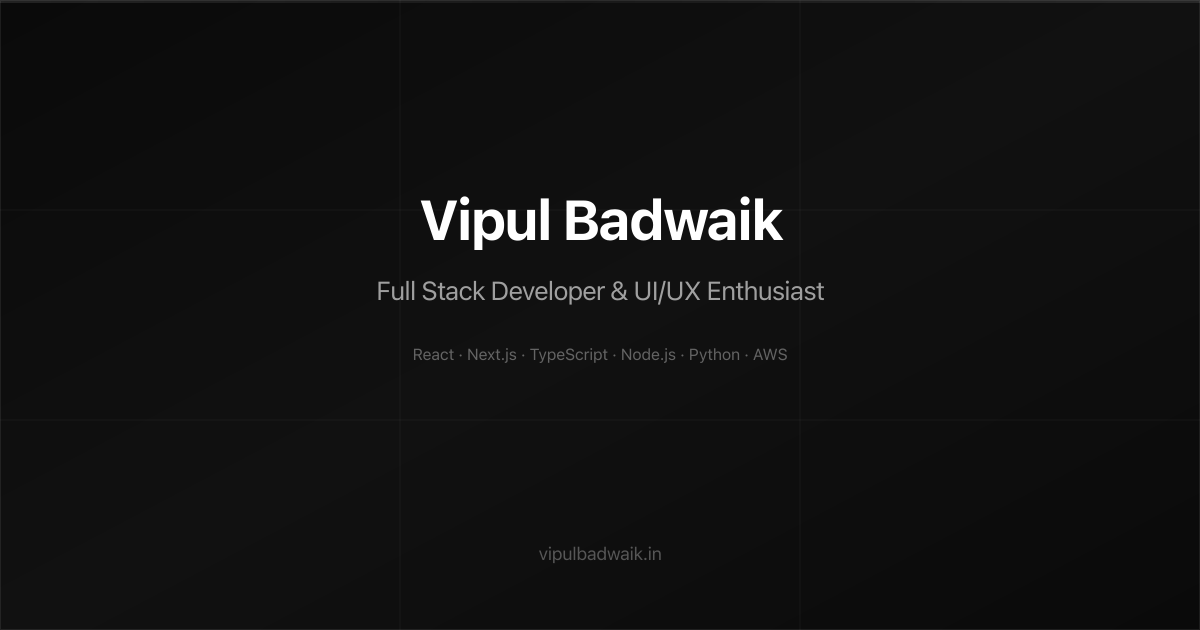
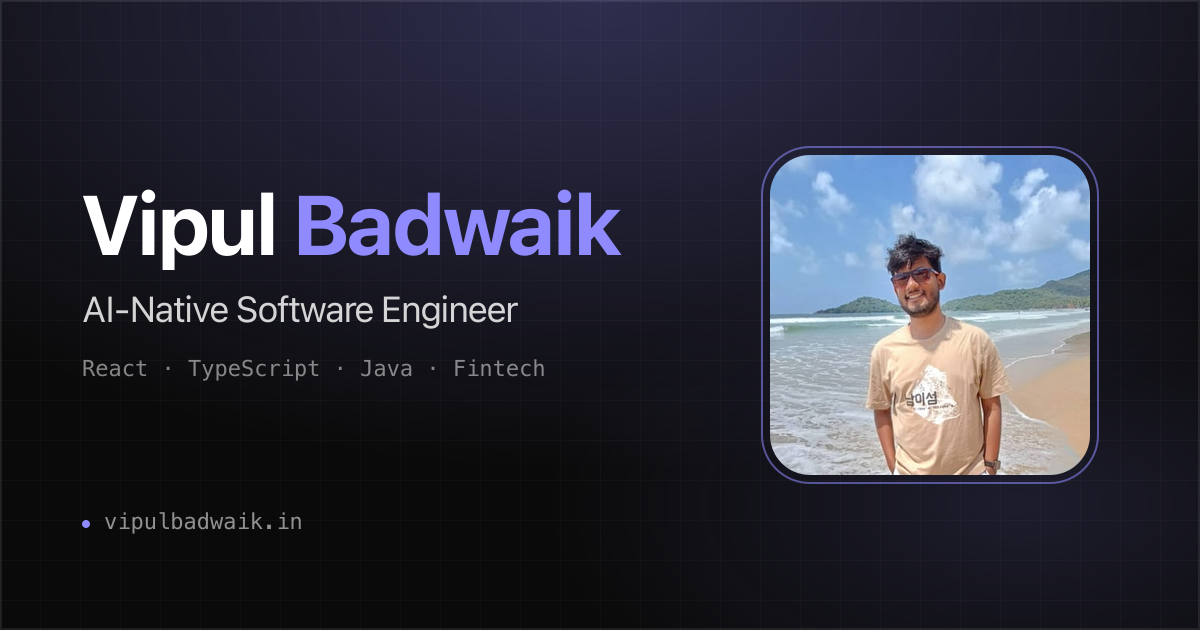
feat: SEO metadata, JSON-LD, generated sitemap/robots, AI crawler access, new resume link

diff --git a/src/app/layout.js b/src/app/layout.js
@@ -1,6 +1,7 @@
 import { Plus_Jakarta_Sans, Bricolage_Grotesque, JetBrains_Mono } from 'next/font/google';
 import Script from 'next/script';
 import './globals.css';
+import { SITE_URL, SITE_NAME, SITE_TITLE, SITE_DESCRIPTION } from '../lib/site';
 
 const jakarta = Plus_Jakarta_Sans({
   subsets: ['latin'],
@@ -20,58 +21,56 @@ const jetbrains = JetBrains_Mono({
   display: 'swap',
 });
 
-const SITE_URL = 'https://vipulbadwaik.in';
-
 export const metadata = {
   metadataBase: new URL(SITE_URL),
-  title: 'Vipul Badwaik — Full Stack Developer',
-  description:
-    'Portfolio of Vipul Badwaik — Full Stack Developer & UI/UX Enthusiast specializing in React, Next.js, Node.js, and modern web technologies. Currently an AI-native Software Engineer at Fundly.ai.',
+  title: { default: SITE_TITLE, template: '%s | Vipul Badwaik' },
+  description: SITE_DESCRIPTION,
+  applicationName: SITE_NAME,
   keywords: [
     'Vipul Badwaik',
-    'Full Stack Developer',
-    'Frontend Engineer',
-    'React Developer',
-    'Next.js',
-    'TypeScript',
-    'Node.js',
-    'Java',
-    'Redux',
-    'Portfolio',
     'Software Engineer',
+    'AI-native engineer',
+    'React Developer',
+    'TypeScript',
+    'Java Developer',
+    'Frontend Engineer',
+    'Fintech',
+    'Fundly.ai',
+    'Mumbai',
     'India',
+    'Portfolio',
   ],
-  authors: [{ name: 'Vipul Badwaik', url: SITE_URL }],
-  creator: 'Vipul Badwaik',
-  alternates: {
-    canonical: SITE_URL,
-  },
+  authors: [{ name: SITE_NAME, url: SITE_URL }],
+  creator: SITE_NAME,
+  publisher: SITE_NAME,
+  category: 'technology',
+  alternates: { canonical: '/' },
   icons: {
     icon: '/favicon.png',
     apple: '/apple-touch-icon.png',
   },
   openGraph: {
-    title: 'Vipul Badwaik — Full Stack Developer',
-    description:
-      'Full Stack Developer & UI/UX Enthusiast specializing in React, Next.js, and modern web technologies.',
+    type: 'profile',
+    firstName: 'Vipul',
+    lastName: 'Badwaik',
+    title: SITE_TITLE,
+    description: SITE_DESCRIPTION,
     url: SITE_URL,
-    siteName: 'Vipul Badwaik',
+    siteName: SITE_NAME,
     locale: 'en_US',
-    type: 'website',
     images: [
       {
         url: '/og-image.png',
         width: 1200,
         height: 630,
-        alt: 'Vipul Badwaik — Full Stack Developer',
+        alt: 'Vipul Badwaik — AI-native Software Engineer',
       },
     ],
   },
   twitter: {
     card: 'summary_large_image',
-    title: 'Vipul Badwaik — Full Stack Developer',
-    description:
-      'Full Stack Developer & UI/UX Enthusiast specializing in React, Next.js, and modern web technologies.',
+    title: SITE_TITLE,
+    description: SITE_DESCRIPTION,
     creator: '@VipulBadwaik',
     images: ['/og-image.png'],
   },
@@ -81,8 +80,85 @@ export const metadata = {
     googleBot: {
       index: true,
       follow: true,
+      'max-image-preview': 'large',
+      'max-snippet': -1,
     },
   },
+  // Set NEXT_PUBLIC_GOOGLE_SITE_VERIFICATION to the token from Google Search Console
+  // (HTML-tag method) if you prefer that over DNS verification.
+  ...(process.env.NEXT_PUBLIC_GOOGLE_SITE_VERIFICATION && {
+    verification: { google: process.env.NEXT_PUBLIC_GOOGLE_SITE_VERIFICATION },
+  }),
+};
+
+export const viewport = {
+  themeColor: '#0a0a0a',
+  colorScheme: 'dark',
+};
+
+const structuredData = {
+  '@context': 'https://schema.org',
+  '@graph': [
+    {
+      '@type': 'WebSite',
+      '@id': `${SITE_URL}/#website`,
+      url: SITE_URL,
+      name: SITE_NAME,
+      description: SITE_DESCRIPTION,
+      inLanguage: 'en',
+      publisher: { '@id': `${SITE_URL}/#person` },
+    },
+    {
+      '@type': 'ProfilePage',
+      '@id': `${SITE_URL}/#profile`,
+      url: SITE_URL,
+      name: SITE_TITLE,
+      isPartOf: { '@id': `${SITE_URL}/#website` },
+      mainEntity: { '@id': `${SITE_URL}/#person` },
+    },
+    {
+      '@type': 'Person',
+      '@id': `${SITE_URL}/#person`,
+      name: SITE_NAME,
+      givenName: 'Vipul',
+      familyName: 'Badwaik',
+      url: SITE_URL,
+      image: `${SITE_URL}/vipul-optimized.jpg`,
+      description: SITE_DESCRIPTION,
+      jobTitle: 'Software Engineer',
+      worksFor: { '@type': 'Organization', name: 'Fundly.ai' },
+      alumniOf: {
+        '@type': 'CollegeOrUniversity',
+        name: 'Rungta College of Engineering and Technology, Bhilai',
+      },
+      knowsAbout: [
+        'React',
+        'TypeScript',
+        'JavaScript',
+        'Java',
+        'Redux',
+        'Node.js',
+        'PostgreSQL',
+        'Redis',
+        'Tailwind CSS',
+        'Docker',
+        'REST APIs',
+        'Agentic AI',
+        'Fintech',
+      ],
+      sameAs: [
+        'https://github.com/vipulbadwaik',
+        'https://www.linkedin.com/in/vipulbadwaik/',
+        'https://x.com/VipulBadwaik',
+      ],
+      address: {
+        '@type': 'PostalAddress',
+        addressLocality: 'Mumbai',
+        addressRegion: 'Maharashtra',
+        addressCountry: 'IN',
+      },
+    },
+  ],
 };
 
 export default function RootLayout({ children }) {
@@ -117,46 +193,7 @@ export default function RootLayout({ children }) {
       <body className="font-sans bg-[#0a0a0a] text-white antialiased selection:bg-accent/30">
         <script
           type="application/ld+json"
-          dangerouslySetInnerHTML={{
-            __html: JSON.stringify({
-              '@context': 'https://schema.org',
-              '@type': 'Person',
-              name: 'Vipul Badwaik',
-              url: SITE_URL,
-              image: `${SITE_URL}/avatar.png`,
-              jobTitle: 'Software Engineer',
-              worksFor: {
-                '@type': 'Organization',
-                name: 'Fundly.ai',
-              },
-              alumniOf: {
-                '@type': 'CollegeOrUniversity',
-                name: 'Rungta College of Engineering and Technology, Bhilai',
-              },
-              knowsAbout: [
-                'JavaScript',
-                'TypeScript',
-                'Java',
-                'React',
-                'Redux',
-                'Node.js',
-                'PostgreSQL',
-                'Redis',
-                'Tailwind CSS',
-                'Docker',
-                'Agentic AI',
-              ],
-              sameAs: [
-                'https://github.com/vipulbadwaik',
-                'https://www.linkedin.com/in/vipulbadwaik/',
-                'https://x.com/VipulBadwaik',
-              ],
-              address: {
-                '@type': 'PostalAddress',
-                addressCountry: 'IN',
-              },
-            }),
-          }}
+          dangerouslySetInnerHTML={{ __html: JSON.stringify(structuredData) }}
         />
         {children}
       </body>

diff --git a/src/app/page.js b/src/app/page.js
@@ -18,6 +18,7 @@ import CopyEmail from '../components/CopyEmail';
 import Chatbot from '../components/Chatbot';
 import Astronaut from '../components/Astronaut';
 import Walker from '../components/Walker';
+import { RESUME_URL } from '../lib/site';
 import { skillGroups, experience, education, socials } from '../data/portfolioData';
 
 const stats = [
@@ -84,7 +85,7 @@ export default function Home() {
               <FadeIn direction="none" delay={0.45} duration={0.6}>
                 <div className="mt-7 flex flex-col sm:flex-row items-stretch sm:items-center justify-center md:justify-start gap-3">
                   <a
-                    href="https://drive.google.com/file/d/17Qz92-5K-ADO32iwSwDQP9La6eI39wsP/view?usp=sharing"
+                    href={RESUME_URL}
                     target="_blank"
                     rel="noopener noreferrer"
                     className="inline-flex items-center justify-center gap-2 px-5 py-3 rounded-full bg-white text-black text-sm font-medium hover:bg-accent-soft hover-lift transition-colors"
@@ -237,7 +238,7 @@ export default function Home() {
                     <a
                       href={social.url}
                       target="_blank"
-                      rel="noopener noreferrer"
+                      rel="me noopener noreferrer"
                       className="p-3 border border-white/10 rounded-lg text-gray-300 hover:text-accent hover:border-accent/40 hover-scale transition-colors inline-block"
                       aria-label={social.name}
                     >

diff --git a/src/components/ExperienceCard.jsx b/src/components/ExperienceCard.jsx
@@ -26,7 +26,6 @@ const ExperienceCard = ({ job, index }) => {
   const tags = job.tags || [];
   const points = Array.isArray(job.description) ? job.description : [job.description];
   const collapsible = points.length > VISIBLE_POINTS;
-  const shown = expanded || !collapsible ? points : points.slice(0, VISIBLE_POINTS);
 
   return (
     <div className="flex gap-3 sm:gap-4">
@@ -88,8 +87,9 @@ const ExperienceCard = ({ job, index }) => {
         )}
 
         <ul className="text-sm text-gray-300 leading-relaxed space-y-2.5 mt-4">
-          {shown.map((point, j) => (
-            <li key={j} className="flex gap-3">
+          {/* All bullets stay in the DOM (crawlers/AI read them); extras are just visually hidden until expanded. */}
+          {points.map((point, j) => (
+            <li key={j} className={`flex gap-3 ${collapsible && !expanded && j >= VISIBLE_POINTS ? 'hidden' : ''}`}>
               <span className="mt-[0.6rem] w-1 h-1 rounded-full bg-accent shrink-0" />
               <span>{renderRich(point)}</span>
             </li>

diff --git a/src/app/robots.js b/src/app/robots.js
@@ -1,0 +1,25 @@
+import { SITE_URL } from '../lib/site';
+
+// AI crawlers are listed explicitly (same access as "*") so the intent is visible and easy to change.
+const AI_CRAWLERS = [
+  'GPTBot',
+  'ChatGPT-User',
+  'OAI-SearchBot',
+  'ClaudeBot',
+  'Claude-Web',
+  'Claude-SearchBot',
+  'Google-Extended',
+  'PerplexityBot',
+  'CCBot',
+  'Bytespider',
+];
+
+export default function robots() {
+  return {
+    rules: [
+      { userAgent: '*', allow: '/', disallow: ['/api/'] },
+      { userAgent: AI_CRAWLERS, allow: '/', disallow: ['/api/'] },
+    ],
+    sitemap: `${SITE_URL}/sitemap.xml`,
+  };
+}

diff --git a/src/lib/site.js b/src/lib/site.js
@@ -1,0 +1,9 @@
+// Single source of truth for site-wide SEO values.
+export const SITE_URL = 'https://vipulbadwaik.in';
+export const SITE_NAME = 'Vipul Badwaik';
+export const SITE_TITLE = 'Vipul Badwaik — Software Engineer | React, TypeScript, Java';
+export const SITE_DESCRIPTION =
+  'Vipul Badwaik is an AI-native Software Engineer in Mumbai building fintech products with React, TypeScript and Java. Currently at Fundly.ai, previously Capgemini.';
+
+// Google Drive resume (opens in a new tab)
+export const RESUME_URL = 'https://drive.google.com/file/d/1IcLZ59gIgm0w9l8WIRh6QWfQN6MJBnSu/view?usp=sharing';

diff --git a/src/components/HeroName.jsx b/src/components/HeroName.jsx
@@ -34,6 +34,8 @@ const HeroName = ({ className }) => {
       initial={reduceMotion ? 'show' : 'hidden'}
       animate="show"
     >
+      {/* Plain-text copy for crawlers and screen readers; the animated letters below are decorative. */}
+      <span className="sr-only">{fullName}</span>
       {WORDS.map((word, wi) => (
         <span key={word.text} aria-hidden="true">
           <span className={`inline-block whitespace-nowrap ${word.className}`}>

diff --git a/src/app/sitemap.js b/src/app/sitemap.js
@@ -1,0 +1,12 @@
+import { SITE_URL } from '../lib/site';
+
+export default function sitemap() {
+  return [
+    {
+      url: SITE_URL,
+      lastModified: new Date(),
+      changeFrequency: 'monthly',
+      priority: 1,
+    },
+  ];
+}

diff --git a/ARCHITECTURE.md b/ARCHITECTURE.md
@@ -15,6 +15,7 @@ Single-page portfolio site for Vipul Badwaik. Next.js (App Router) on Vercel; pa
 ```
 src/
   app/
+    sitemap.js / robots.js   Generated /sitemap.xml and /robots.txt (blocks only /api/)
     layout.js        Root layout: fonts, metadata/SEO, GA + Clarity scripts, JSON-LD person schema
     page.js           The entire single-page site (hero, about, skills, experience, education, contact)
     globals.css       Tailwind entry + custom CSS (grid pattern, glow, etc.)
@@ -26,11 +27,12 @@ src/
   lib/
     astronaut.js       Mission loop + actions for the Astronaut and Rocket
     walker.js          Rig + random-activity engine for the bottom-of-screen Walker
+    site.js            SITE_URL / title / description — single source for SEO values
     chatEngine.js      Local rule-based intent matcher — offline fallback when the AI route is unavailable
     knowledge.js       Builds the chatbot system prompt from portfolioData.js + extra resume facts
     utils.js           `cn()` class-merging helper
   assets/              Static SVGs bundled through the build
-public/                Static files served as-is (favicons, og-image, avatar, manifest, robots.txt, sitemap.xml)
+public/                Static files served as-is (favicons, og-image, avatar, manifest, logos)
 scripts/
   generate-assets.mjs  Image/asset generation script (sharp), run manually/offline
 ```
@@ -61,7 +63,7 @@ scripts/
 1. **Content**: `src/data/portfolioData.js` exports `skillGroups` (+ derived flat `skills`), `concepts`, `experience`, `projects`, `education` (incl. `achievement`), `socials`. `page.js` imports this directly and maps over it to render sections. Editing content = editing this file only; no CMS.
 2. **Chatbot**: `Chatbot.jsx` sends the last ≤10 messages to `src/app/api/chat/route.js` → builds the system prompt via `knowledge.js` (experience/skills/education from `portfolioData.js` + resume-only facts in `extraFacts`) → streams from Groq's OpenAI-compatible API (`GROQ_MODEL` default `openai/gpt-oss-120b`, falls back to `GROQ_FALLBACK_MODEL` `openai/gpt-oss-20b`) → plain-text stream back to the widget. Route guards: 600-char/message cap, 25 msgs per 10 min per IP (best-effort, in-memory). Prompt rules: answer only from supplied facts, stay on topic, resist prompt injection, never share phone. Env: `GROQ_API_KEY` (server-only).
 3. **Contact form**: form fields → JSON → `POST /api/contact` ([route.js](src/app/api/contact/route.js)) → honeypot check, validation (required/length/email), best-effort in-memory rate limit (5 per 10 min per IP) → Resend REST API (`reply_to` = sender) → inbox at `CONTACT_TO_EMAIL`. Env vars (server-only, set in Vercel + `.env.local`, see `.env.example`): `RESEND_API_KEY`, `CONTACT_TO_EMAIL`, optional `CONTACT_FROM_EMAIL` (needs a Resend-verified domain; defaults to `onboarding@resend.dev`, which can only deliver to the Resend account owner's email).
-4. **SEO/meta**: all static, defined once in `layout.js` (Open Graph, Twitter card, JSON-LD `Person` schema, sitemap/robots in `public/`).
+4. **SEO/meta**: defined once in `layout.js` from `lib/site.js` (title template, description, canonical, Open Graph `profile`, Twitter card, theme-color viewport, JSON-LD `@graph` of `WebSite` + `ProfilePage` + `Person` with `sameAs`/`knowsAbout`/`address`). `app/sitemap.js` and `app/robots.js` generate `/sitemap.xml` and `/robots.txt`. Share image `public/og-image.png` is generated by `node scripts/generate-assets.mjs og`. Optional env `NEXT_PUBLIC_GOOGLE_SITE_VERIFICATION` adds the Search Console meta tag.
 
 ## Build & deploy
 
